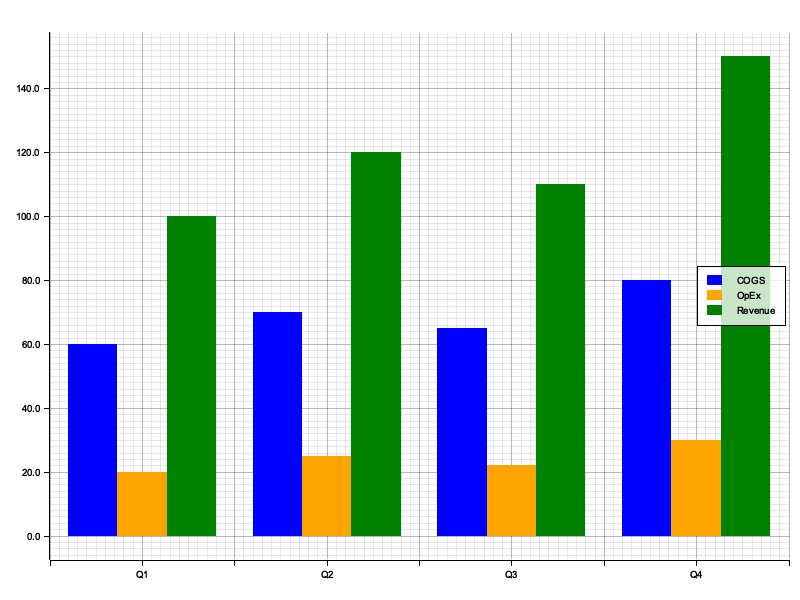
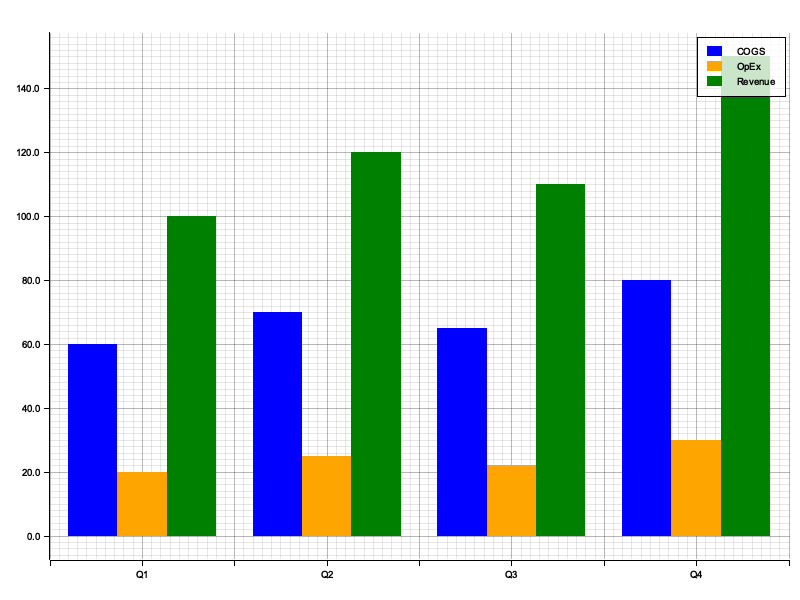
wire up legend position and change number parsing

Changed region(s): [[0.875, 0.42, 0.9688, 0.57], [0.875, 0.06, 0.9688, 0.18]]

diff --git a/src/parser/theme.rs b/src/parser/theme.rs
@@ -157,12 +157,17 @@ fn parse_legend_position_arg(input: &str) -> IResult<&str, ThemeArg> {
     let (input, _) = ws(tag("legend_position:"))(input)?;
     let (input, val) = ws(string_literal)(input)?;
     let pos = match val.as_str() {
-        "right" => LegendPosition::Right,
-        "left" => LegendPosition::Left,
-        "top" => LegendPosition::Top,
-        "bottom" => LegendPosition::Bottom,
+        "upper-left" => LegendPosition::UpperLeft,
+        "upper-middle" | "top" => LegendPosition::UpperMiddle,
+        "upper-right" => LegendPosition::UpperRight,
+        "middle-left" | "left" => LegendPosition::MiddleLeft,
+        "middle-middle" | "center" => LegendPosition::MiddleMiddle,
+        "middle-right" | "right" => LegendPosition::MiddleRight,
+        "lower-left" => LegendPosition::LowerLeft,
+        "lower-middle" | "bottom" => LegendPosition::LowerMiddle,
+        "lower-right" => LegendPosition::LowerRight,
         "none" => LegendPosition::None,
-        _ => LegendPosition::Right,
+        _ => LegendPosition::UpperRight,
     };
     Ok((input, ThemeArg::LegendPosition(pos)))
 }
@@ -214,7 +219,7 @@ pub fn parse_theme_minimal(input: &str) -> IResult<&str, Theme> {
         axis_text: ThemeElement::Inherit,
         axis_line: ThemeElement::Blank,
         axis_ticks: ThemeElement::Blank,
-        legend_position: LegendPosition::Right,
+        legend_position: LegendPosition::UpperRight,
     }))
 }
 
@@ -333,7 +338,7 @@ mod tests {
         let result = parse_theme("theme(legend_position: \"bottom\")");
         assert!(result.is_ok());
         let (_, theme) = result.unwrap();
-        assert_eq!(theme.legend_position, LegendPosition::Bottom);
+        assert_eq!(theme.legend_position, LegendPosition::LowerMiddle);
     }
 
     #[test]

diff --git a/src/graph.rs b/src/graph.rs
@@ -319,13 +319,32 @@ impl Canvas {
             }
         }
         
-        // Draw Legend if any items
+        // Draw Legend if any items (respecting theme legend_position)
         // Note: Plotters draws legend only if series were labeled
-        chart.configure_series_labels()
-            .background_style(&WHITE.mix(0.8))
-            .border_style(&BLACK)
-            .draw()
-            .context("Failed to draw legend")?;
+        use crate::parser::ast::LegendPosition;
+        use plotters::chart::SeriesLabelPosition;
+
+        if theme.legend_position != LegendPosition::None {
+            let position = match theme.legend_position {
+                LegendPosition::UpperLeft => SeriesLabelPosition::UpperLeft,
+                LegendPosition::UpperMiddle => SeriesLabelPosition::UpperMiddle,
+                LegendPosition::UpperRight => SeriesLabelPosition::UpperRight,
+                LegendPosition::MiddleLeft => SeriesLabelPosition::MiddleLeft,
+                LegendPosition::MiddleMiddle => SeriesLabelPosition::MiddleMiddle,
+                LegendPosition::MiddleRight => SeriesLabelPosition::MiddleRight,
+                LegendPosition::LowerLeft => SeriesLabelPosition::LowerLeft,
+                LegendPosition::LowerMiddle => SeriesLabelPosition::LowerMiddle,
+                LegendPosition::LowerRight => SeriesLabelPosition::LowerRight,
+                LegendPosition::None => unreachable!(), // handled above
+            };
+
+            chart.configure_series_labels()
+                .position(position)
+                .background_style(&WHITE.mix(0.8))
+                .border_style(&BLACK)
+                .draw()
+                .context("Failed to draw legend")?;
+        }
 
         Ok(())
     }

diff --git a/src/parser/facet.rs b/src/parser/facet.rs
@@ -63,10 +63,7 @@ fn parse_facet_argument(input: &str) -> IResult<&str, (String, FacetArgValue)> {
             (input, FacetArgValue::column(col))
         }
         "ncol" => {
-            let (input, _) = ws(tag("Some"))(input)?;
-            let (input, _) = ws(char('('))(input)?;
-            let (input, n) = nom::character::complete::u32(input)?;
-            let (input, _) = ws(char(')'))(input)?;
+            let (input, n) = ws(nom::character::complete::u32)(input)?;
             (input, FacetArgValue::ncol(n as usize))
         }
         "scales" => {
@@ -142,7 +139,7 @@ mod tests {
 
     #[test]
     fn test_parse_facet_wrap_with_ncol() {
-        let result = parse_facet_wrap("facet_wrap(by: region, ncol: Some(2))");
+        let result = parse_facet_wrap("facet_wrap(by: region, ncol: 2)");
         assert!(result.is_ok());
         let (_, facet) = result.unwrap();
         assert_eq!(facet.by, "region");
@@ -176,7 +173,7 @@ mod tests {
 
     #[test]
     fn test_parse_facet_wrap_all_args() {
-        let result = parse_facet_wrap(r#"facet_wrap(by: region, ncol: Some(3), scales: "free_x")"#);
+        let result = parse_facet_wrap(r#"facet_wrap(by: region, ncol: 3, scales: "free_x")"#);
         assert!(result.is_ok());
         let (_, facet) = result.unwrap();
         assert_eq!(facet.by, "region");
@@ -193,7 +190,7 @@ mod tests {
 
     #[test]
     fn test_parse_facet_wrap_with_whitespace() {
-        let result = parse_facet_wrap(r#"facet_wrap( by : region , ncol : Some(2) )"#);
+        let result = parse_facet_wrap(r#"facet_wrap( by : region , ncol : 2 )"#);
         assert!(result.is_ok());
         let (_, facet) = result.unwrap();
         assert_eq!(facet.by, "region");

diff --git a/src/parser/ast.rs b/src/parser/ast.rs
@@ -8,16 +8,21 @@ pub enum CoordSystem {
 
 #[derive(Debug, Clone, PartialEq)]
 pub enum LegendPosition {
-    Right,
-    Left,
-    Top,
-    Bottom,
+    UpperLeft,
+    UpperMiddle,
+    UpperRight,
+    MiddleLeft,
+    MiddleMiddle,
+    MiddleRight,
+    LowerLeft,
+    LowerMiddle,
+    LowerRight,
     None,
 }
 
 impl Default for LegendPosition {
     fn default() -> Self {
-        LegendPosition::Right
+        LegendPosition::UpperRight
     }
 }
 
@@ -109,7 +114,7 @@ impl Default for Theme {
             axis_text: ThemeElement::Inherit,
             axis_line: ThemeElement::Inherit,
             axis_ticks: ThemeElement::Inherit,
-            legend_position: LegendPosition::Right,
+            legend_position: LegendPosition::UpperRight,
         }
     }
 }

diff --git a/tests/integration_tests.rs b/tests/integration_tests.rs
@@ -234,7 +234,7 @@ fn test_end_to_end_facet_wrap_scatter() {
 #[test]
 fn test_end_to_end_facet_with_ncol() {
     let csv = fs::read_to_string("fixtures/multiregion_sales.csv").expect("Failed to read test CSV");
-    let result = run_gramgraph("aes(x: time, y: sales) | line() | facet_wrap(by: region, ncol: Some(2))", &csv);
+    let result = run_gramgraph("aes(x: time, y: sales) | line() | facet_wrap(by: region, ncol: 2)", &csv);
     assert!(result.is_ok(), "Failed: {:?}", result.err());
     let png_bytes = result.unwrap();
     assert!(is_valid_png(&png_bytes));

diff --git a/src/parser/pipeline.rs b/src/parser/pipeline.rs
@@ -223,7 +223,7 @@ mod tests {
 
     #[test]
     fn test_parse_plot_spec_with_facet_wrap_full() {
-        let result = parse_plot_spec(r#"aes(x: time, y: sales) | line() | facet_wrap(by: region, ncol: Some(2), scales: "free_x")"#);
+        let result = parse_plot_spec(r#"aes(x: time, y: sales) | line() | facet_wrap(by: region, ncol: 2, scales: "free_x")"#);
         assert!(result.is_ok());
         let (_, spec) = result.unwrap();
         assert!(spec.facet.is_some());

diff --git a/CLAUDE.md b/CLAUDE.md
@@ -161,7 +161,7 @@ GramGraph implements a hierarchical theme system inspired by ggplot2, using elem
 - `axis_text`: Axis label styling (element_text)
 - `axis_line`: Axis line styling (element_line or element_blank)
 - `axis_ticks`: Tick mark styling (element_line or element_blank)
-- `legend_position`: "right" | "left" | "top" | "bottom" | "none"
+- `legend_position`: "right" | "left" | "top" | "bottom" | "upper-right" | "upper-middle" | "upper-left" | "middle-right" | "middle-middle" | "middle-left" | "lower-right" | "lower-middle" | "lower-left" | "none"
 
 **Color Formats:**
 - Named colors: "red", "blue", "gray", "white", etc.
